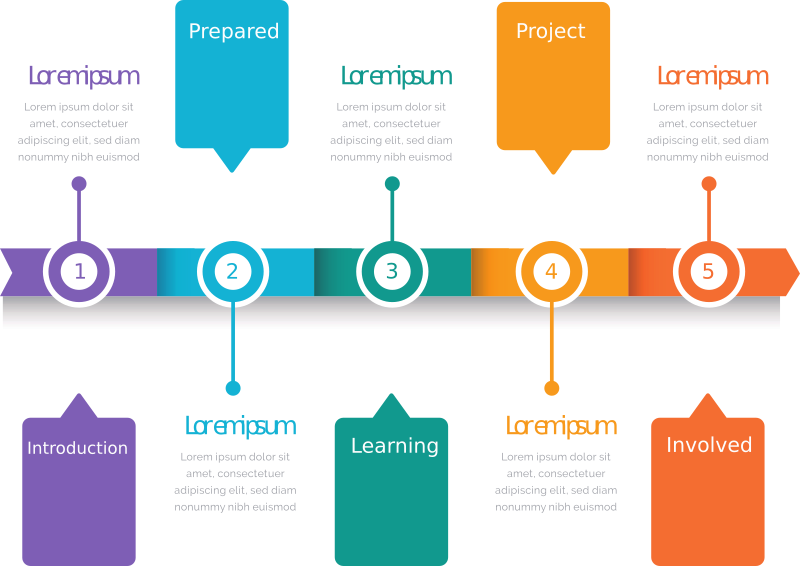
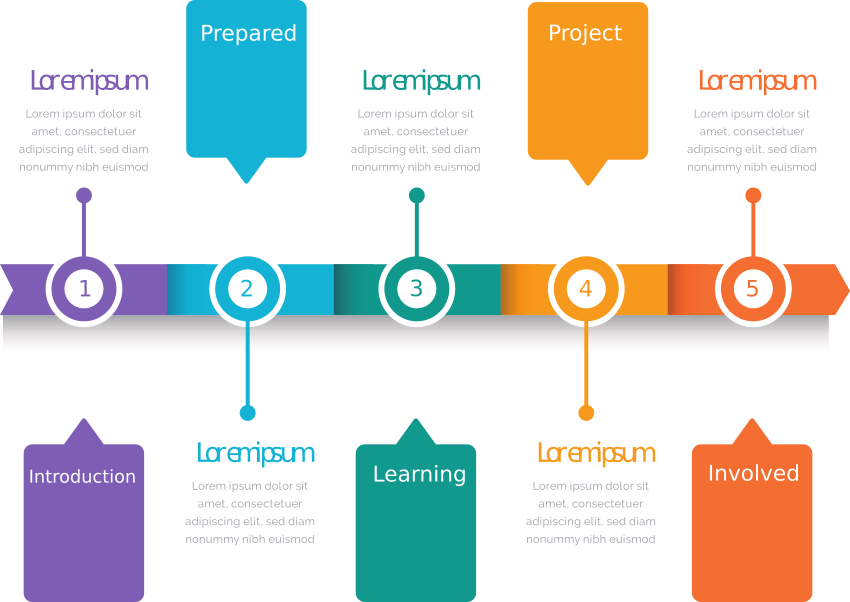
change my name

diff --git a/index.html b/index.html
@@ -88,7 +88,7 @@
                                       </div>
                                   </div>
                                   <div class="column is-4">
-                                      <div class="card is-shady">
+                                      <div class="card has-shadow">
                                           <div class="card-images has-text-centered"><i class="fa fa-paw"></i></div>
                                           <div class="card-content">
                                               <div class="content">
@@ -101,8 +101,8 @@
                                   </div>
                               </div>
                           </section>
-                          <h2 class="has-text-danger">#Timeline in this Community</h2>
-                          <figure class="image is-800x566">
+                          <h2 class="has-text-danger"># Timeline in this Community.</h2>
+                          <figure class="image is-850x602">
                               <img class="" src="assets/infograph_timeline.png" alt="">
                           </figure>
           <!-- The end of section -->

diff --git a/css/style.css b/css/style.css
@@ -1,6 +1,3 @@
-/* github.com/plasticneko */
-/* bulma css framework by jeremy thomas (github.com/jgthms | bulma.io) */
-
 .button {
   padding: 20px;
 }
